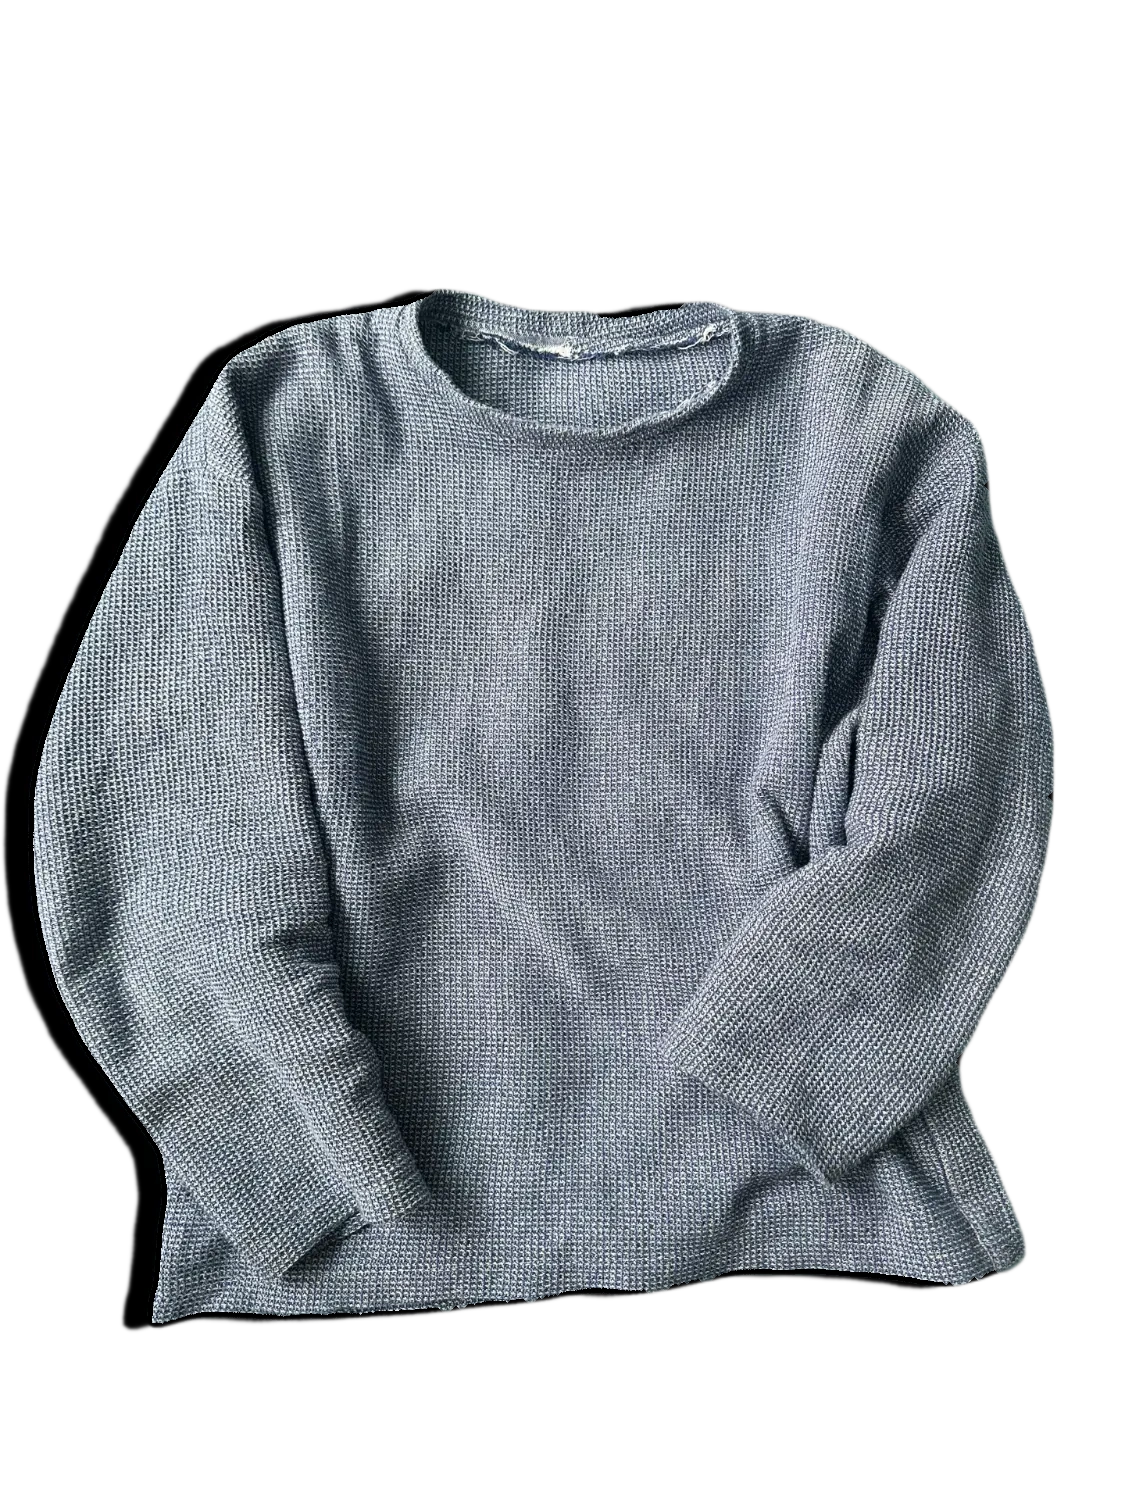
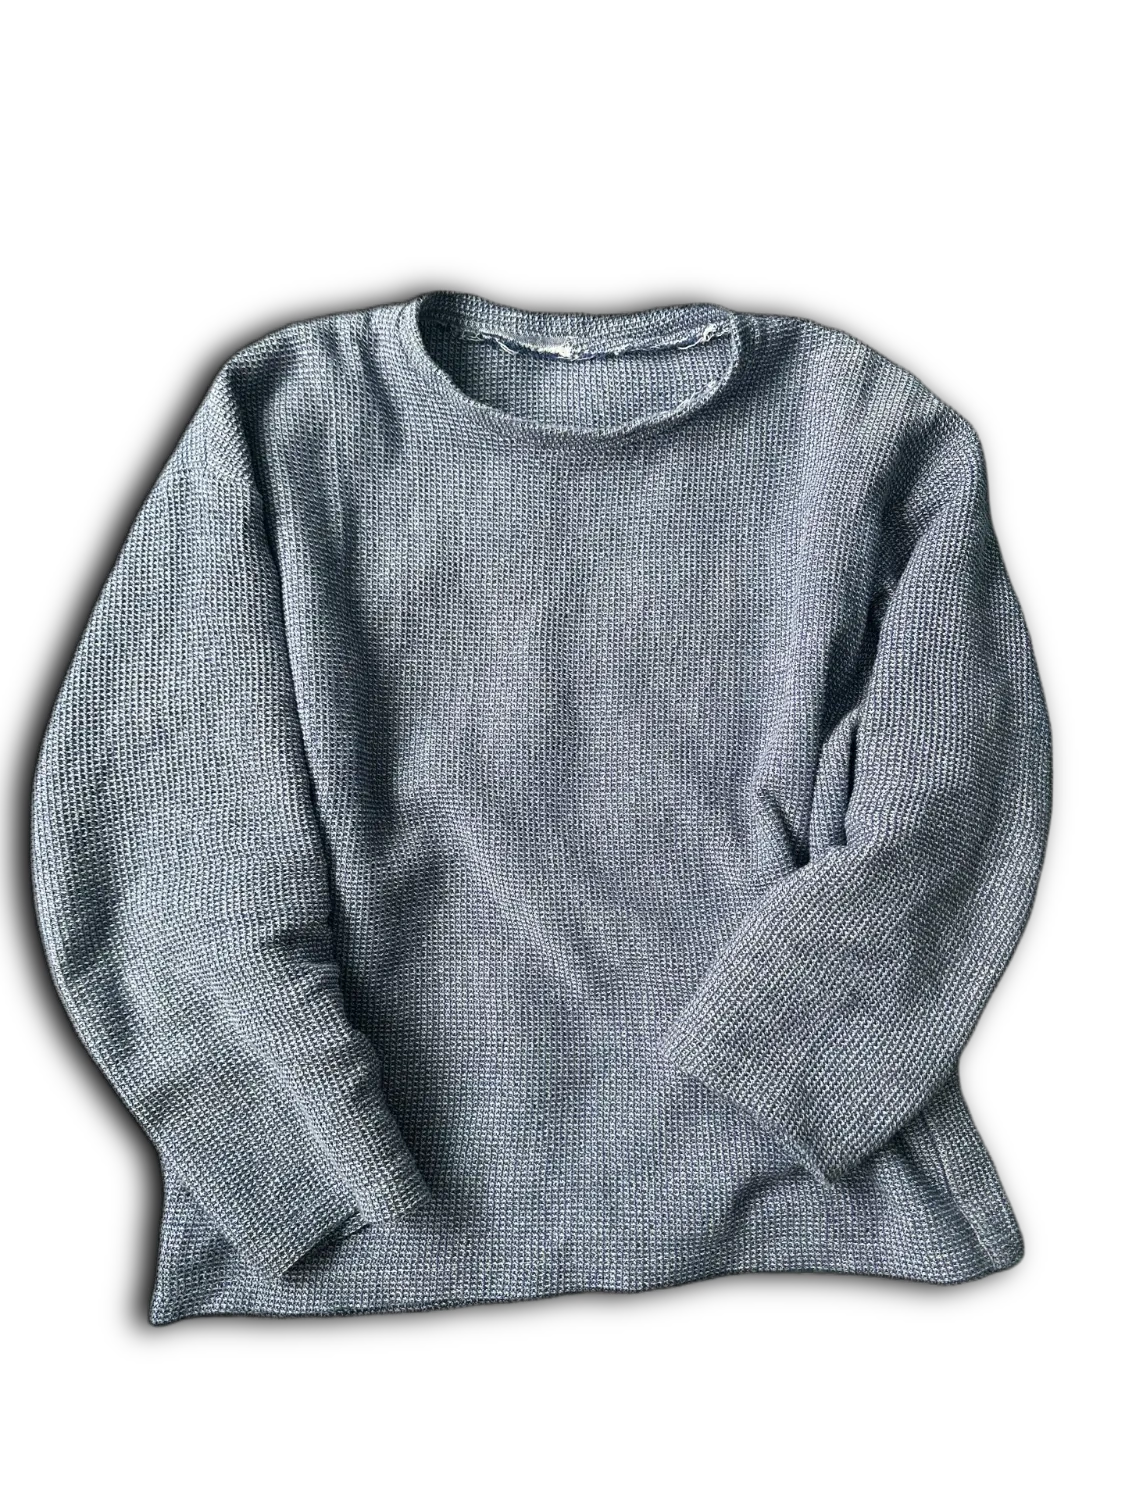
Thermal photos everywhere, THERMALS filter, shadow to the left
- Blue thermal gets three photos (front, back, folded). The light
  fringe where each cut-out meets its drop shadow is now shaded away
  with a short gradient instead of a hard black ring, keeping the knit
  texture and avoiding any outline.
- Same three photos replace the placeholder model photos on the home
  and about pages.
- New THERMALS shop filter next to ALL, from the hand drawing.
- Mustard hover shadow now falls down and to the left; lift/press
  directions mirrored to match.

diff --git a/src/styles/global.css b/src/styles/global.css
@@ -189,7 +189,7 @@ img.drawn {
 }
 
 /* Clickable drawings, like the buttons on brentsienko.com: on hover the drawing lifts a hair and
-   casts a hard mustard shadow in its own shape; pressing drops it into the shadow. Applied to
+   casts a hard mustard shadow in its own shape (down and to the left); pressing drops it into the shadow. Applied to
    everything inside the link/button, so the cart count moves with CART. */
 :is(.drawn-btn, a.tab, a.brand) > *,
 a > img.drawn {
@@ -199,14 +199,14 @@ a > img.drawn {
 @media (hover: hover) {
   :is(.drawn-btn:not(:disabled), a.tab, a.brand):hover > *,
   a:hover > img.drawn {
-    transform: translate(-1px, -1px);
-    filter: drop-shadow(3px 3px 0 var(--sun));
+    transform: translate(1px, -1px);
+    filter: drop-shadow(-3px 3px 0 var(--sun));
   }
 }
 
 :is(.drawn-btn:not(:disabled), a.tab, a.brand):active > *,
 a:active > img.drawn {
-  transform: translate(2px, 2px);
+  transform: translate(-2px, 2px);
   filter: drop-shadow(0 0 0 var(--sun));
 }
 

diff --git a/src/data/products.ts b/src/data/products.ts
@@ -7,7 +7,7 @@
 
 // Filter buttons on the shop page, in order. To add one (e.g. 'thermals'), list it here and
 // draw src/assets/drawn/filter-thermals.png (+ filter-thermals-on.png); it shows products with that category.
-export const CATEGORIES = ['all'] as const;
+export const CATEGORIES = ['all', 'thermals'] as const;
 export type Category = 'tees' | 'thermals' | 'pants';
 
 export const SIZES = ['s', 'm', 'l', 'xl'] as const;

diff --git a/README.md b/README.md
@@ -36,7 +36,7 @@ Things with an `-on` version need two drawings: normal, and selected (circled, f
 | Logo | `logo` ✓ done | upper left of the header (also used for the app icon) |
 | Digits | `digit-0` … `digit-9` ✓ done | cart count + quantities |
 | Tabs | `tab-shop`, `tab-about`, `tab-cart` ✓ done | selected one gets the drawn underline (`-on` files are generated) |
-| Shop filters | `filter-all` ✓ done. To add a category filter, list it in `CATEGORIES` in `src/data/products.ts` and draw `filter-<name>` + `-on` | |
+| Shop filters | `filter-all`, `filter-thermals` ✓ done. To add another, list it in `CATEGORIES` in `src/data/products.ts` and draw `filter-<name>` | selected one gets the underline |
 | Sizes | `size-s`, `size-m`, `size-l`, `size-xl` + `-on` versions | roughly square |
 | Sold out | `scribble-out` | drawn over sold-out sizes |
 | Buttons | `btn-checkout`, `btn-add-to-cart` (ADD+TO+CART), `btn-back` (← BACK), `btn-keep-shopping` (SHOP →) ✓ done | wide |
